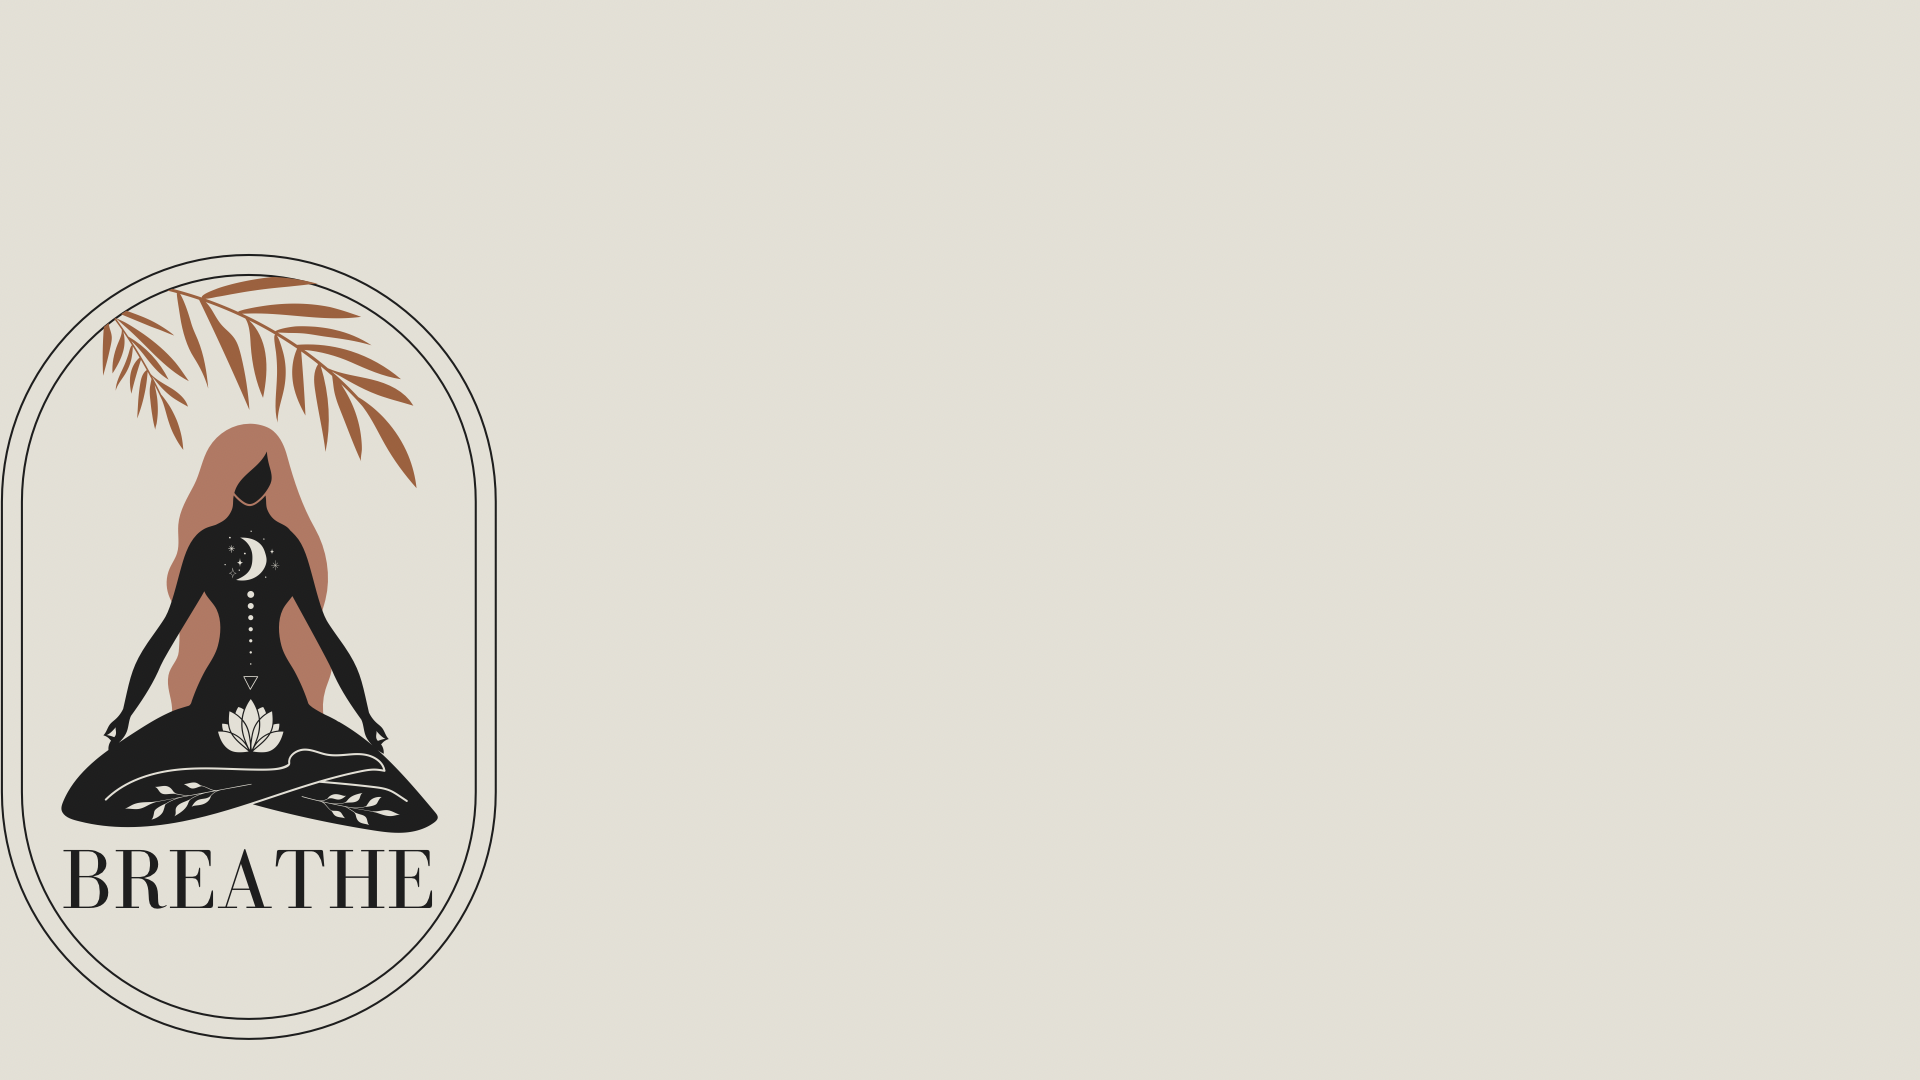
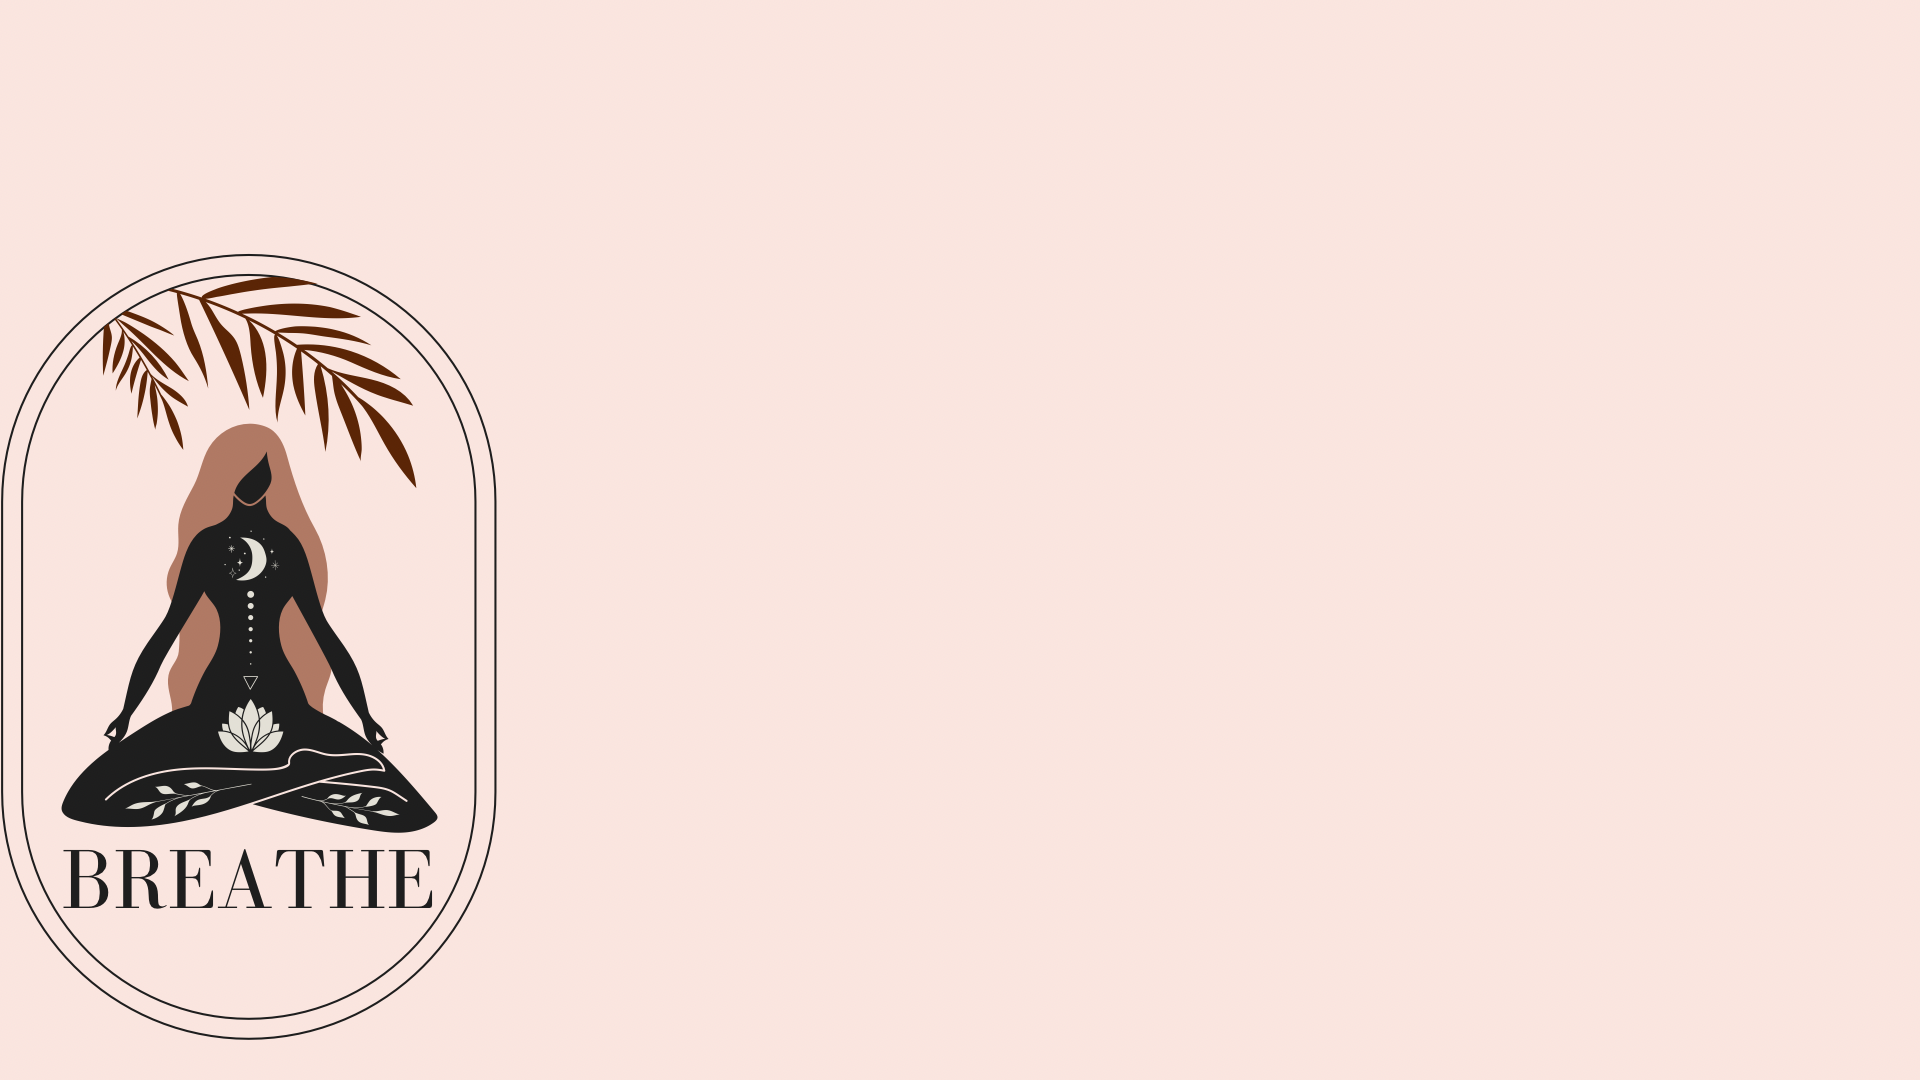
moved all images into same folder, added background images to recipe and meditation pages, did a bit of styling to clean up pages

Changed region(s): [[0.0312, 0.2444, 0.2188, 0.4583]]

diff --git a/client/src/component/Meditation/Progressbar.js b/client/src/component/Meditation/Progressbar.js
@@ -2,21 +2,20 @@ import React from "react";
 import { CircularProgressbar, buildStyles } from 'react-circular-progressbar';
 import 'react-circular-progressbar/dist/styles.css';
 import "./style.css";
+import Background from "../../assets/images/breathe.PNG";
+
 
 
 function ProgressBar (props){
 
-   console.log(props.seconds)
 
 return (
-  
-
-    <div className="sessionopt" style={{ width: 200, height: 200}}>      
-    <CircularProgressbar className="progressBar" initialAnimation={true} onClick={props.value} value= {props.seconds} maxValue={props.maxValue} text={`${props.minsValue} : ${props.secondsValue}`} 
+    <div className="sessionopt" style={{ width: 200, height: 200}}>     
+    <CircularProgressbar className="progressBar" counterClockwise={true} onClick={props.value} value= {props.seconds} maxValue={props.maxValue} text={`${props.minsValue} : ${props.secondsValue}`} 
     //looks like i need to be able to pass in multiple max values in order for the progress bar to actually move, but how?
    
    styles={buildStyles({
-    rotation: 0.25,
+    rotation: 1,
 
     // Whether to use rounded or flat corners on the ends - can use 'butt' or 'round'
     strokeLinecap: 'butt',
@@ -33,10 +32,9 @@ return (
     pathTransition: 'stroke-dashoffset 0.5s ease 0s',
 
     // Colors
-    pathColor: `rgba(62, 152, 199, ${props.seconds})`,
-    textColor: '#f88',
+    pathColor: "gold",
+    textColor: 'navy',
     trailColor: '#d6d6d6',
-    backgroundColor: '#3e98c7',
   })}/>
     </div>
 )

diff --git a/client/src/component/Recipes/style.css b/client/src/component/Recipes/style.css
@@ -8,24 +8,24 @@
 
 .searchTerm {
   width: 100%;
-  border: 3px solid #9b613f;
+  border: 3px solid #12248d;
   border-right: none;
   padding: 5px;
   height: 36px;
   border-radius: 5px 0 0 5px;
   outline: none;
-  color: #5b2506;
+  color: #3a50cc;
 }
 
 .searchTerm:focus{
-  color: #9b613f;
+  color:#12248d;
 }
 
 .searchButton {
   width: 40px;
   height: 36px;
-  border: 3px solid #9b613f;
-  background: #9b613f;
+  border: 3px solid #12248d;
+  background: #12248d;
   text-align: center;
   color: white;
   border-radius: 0 5px 5px 0;
@@ -33,9 +33,8 @@
   font-size: 20px;
 }
 
-/*Resize the wrap to see the search bar change!*/
 .wrap{
-  width: 30%;
+  width: 40%;
   text-align: center;
   margin-left: auto;
   margin-right: auto;
@@ -47,9 +46,28 @@
 	display: flex;
 	align-items: center;
 	justify-content: center;
-	color: #9b613f;
-  }
+	color: #12248d;
+}
+
 
   #healthLabel{
     margin: 5px;
   }
+
+  .bg {
+    width: 100%;
+    height: 100%;
+    position: fixed;
+    background-position: center;
+    background-size: cover;
+  }
+
+ h1{
+   color:#12248d;
+   margin-bottom: 10px;
+   font-family: -apple-system, BlinkMacSystemFont, 'Segoe UI', Roboto, Oxygen, Ubuntu, Cantarell, 'Open Sans', 'Helvetica Neue', sans-serif;
+ }
+ p{
+   font-family: -apple-system, BlinkMacSystemFont, 'Segoe UI', Roboto, Oxygen, Ubuntu, Cantarell, 'Open Sans', 'Helvetica Neue', sans-serif;
+   font-weight: 500;
+ }

diff --git a/client/src/component/Meditation/Session.js b/client/src/component/Meditation/Session.js
@@ -8,6 +8,7 @@ import Grid from "@material-ui/core/Grid";
 import PlaySound from "./Sounds";
 import Jumbotron from 'react-bootstrap/Jumbotron';
 import Container from 'react-bootstrap/Container'
+import Background from "../../assets/images/breathe.PNG";
 
 
 const useStyles = makeStyles((theme) => ({
@@ -51,14 +52,13 @@ const handleClick= (time) =>{
     >
       <Jumbotron fluid
       className="custom-jumbotron">
-  <Container
+         <div className="bg" style={{backgroundImage: `url(${Background})`}}></div>
+  <Container className="headingmed"
   justify="center">
     <h1>Breathing Session</h1>
-    <p>
+    <h3>
     To live mindfully, the breath is the key. Breathe in, breathe out release the stress and let it all out. Choose the length of time below, for your session, and select a sound to set the mood. Remember, reamin in the present, and focus on your breathing! 
-    </p>
-  </Container>
-</Jumbotron>
+    </h3>
       <ProgressBar className="progressBar"
         seconds={seconds}
         secondsValue={secondsValue}
@@ -109,7 +109,8 @@ const handleClick= (time) =>{
           20 mins
         </Button>
       </Grid>
-
+      </Container>
+      </Jumbotron>
       <Grid 
       container
       direction="column"
@@ -118,6 +119,7 @@ const handleClick= (time) =>{
       className="playsound">
       <PlaySound/>
       </Grid>
+      
     </div>
   );
 }

diff --git a/client/src/component/Recipes/Header.js b/client/src/component/Recipes/Header.js
@@ -1,12 +1,22 @@
 import React from "react";
 import "./style.css"
+import Jumbotron from "react-bootstrap/Jumbotron"
+import Container from 'react-bootstrap/Container'
+import Background from "../../assets/images/recipes.PNG";
 
 function Header(){
 
     return(
-        <div className="header">
-            <h1>Healthy and Nutritious Food Recipes</h1> 
-        </div>  
+
+        <Jumbotron fluid>
+            <div className="bg" style={{backgroundImage: `url(${Background})`}}></div>
+        <Container classname="foodie">
+          <h1>Healthy and Nutritious Food Recipes</h1>
+          <p>
+          When you eat healthy you are guaranteed to feel a lot better about yourself. Although eating healthy is not always on everyone’s mind eating healthy foods should always be a must in everyone’s diet. Use the search bar below to search for fun and easy recipes guranteed to make you feel good about yourself!
+          </p>
+        </Container>
+      </Jumbotron>
     )
 }
 

diff --git a/client/src/component/Meditation/style.css b/client/src/component/Meditation/style.css
@@ -175,7 +175,7 @@ h3{
    border-radius: 10px;
    color: #eee;
    font-size: 16px;
-   font-family: 'Cookie', cursive;
+   font-family: 'Baskerville';
    position: relative;
    transition: 1s;
    -webkit-tap-highlight-color: transparent;
@@ -189,14 +189,13 @@ h3{
 }
 
 .custom-jumbotron{
-   width: 50%;
    margin: auto;
    margin-top: -50px;
-   font-family: 'Cookie', cursive;
+   font-family: 'Baskerville';
 }
 @media (min-resolution: 144dpi) {
    .progressBar {
-    position: absolute;
+    position: relative;
     left: 20px; 
     top: 20px;
     }
@@ -204,9 +203,21 @@ h3{
   
   @media (min-resolution: 96dpi) {
    .progressBar {
-    position: absolute;
+    position: relative;
     left: 10px; 
     top: 10px;
     }
   }
 
+  .bg {
+   width: 100%;
+   height: 100%;
+   z-index: -10;
+   position: fixed;
+   background-repeat: no-repeat;
+   background-position: center;
+   background-size: cover;
+ }
+ .headingmed{
+   width: 70%;
+ }

diff --git a/client/src/component/Journals/Card/index.js b/client/src/component/Journals/Card/index.js
@@ -9,9 +9,9 @@ import Button from "@material-ui/core/Button";
 import Typography from "@material-ui/core/Typography";
 import TextField from "@material-ui/core/TextField";
 import "./style.css";
-import Wave from "../../../images/wave.jpg";
-import Bird from "../../../images/bird.jpg";
-import Tree from "../../../images/tree.jpg";
+import Wave from "../../../assets/images/wave.jpg";
+import Bird from "../../../assets/images/bird.jpg";
+import Tree from "../../../assets/images/tree.jpg";
 import SubmitButton from "../SubmitButton";
 import axios from "axios";
 import DisplayCard from "../DisplayCard/index"

diff --git a/client/src/component/Meditation/index.js b/client/src/component/Meditation/index.js
@@ -1,7 +1,6 @@
 import React from "react";
 import "./style.css";
 import {useHistory} from "react-router-dom"
-// import Icon from '@material-ui/core/Icon';
 import Button from '@material-ui/core/Button';
 import { makeStyles } from '@material-ui/core/styles';
 import { Grid } from "@material-ui/core";
@@ -32,13 +31,6 @@ function MeditationFacts() {
     return(
         <div>
             <h1 className="benefits">Benefits of Meditation</h1>
-        
-            {/* <Grid
-  container
-  direction="row"
-  justify="center"
-  alignItems="center"
-> */}
           <Grid
   container
   direction="row"

diff --git a/client/src/component/Recipes/RecipeCard.js b/client/src/component/Recipes/RecipeCard.js
@@ -15,7 +15,7 @@ import NearMeIcon from "@material-ui/icons/NearMe";
 import ExpandMoreIcon from "@material-ui/icons/ExpandMore";
 import { v4 as uuidv4 } from "uuid";
 import "./style.css";
-// import Background from "../../assets/images/recipes.PNG";
+import Background from "../../assets/images/recipes.PNG";
 
 const useStyles = makeStyles((theme) => ({
   root: {
